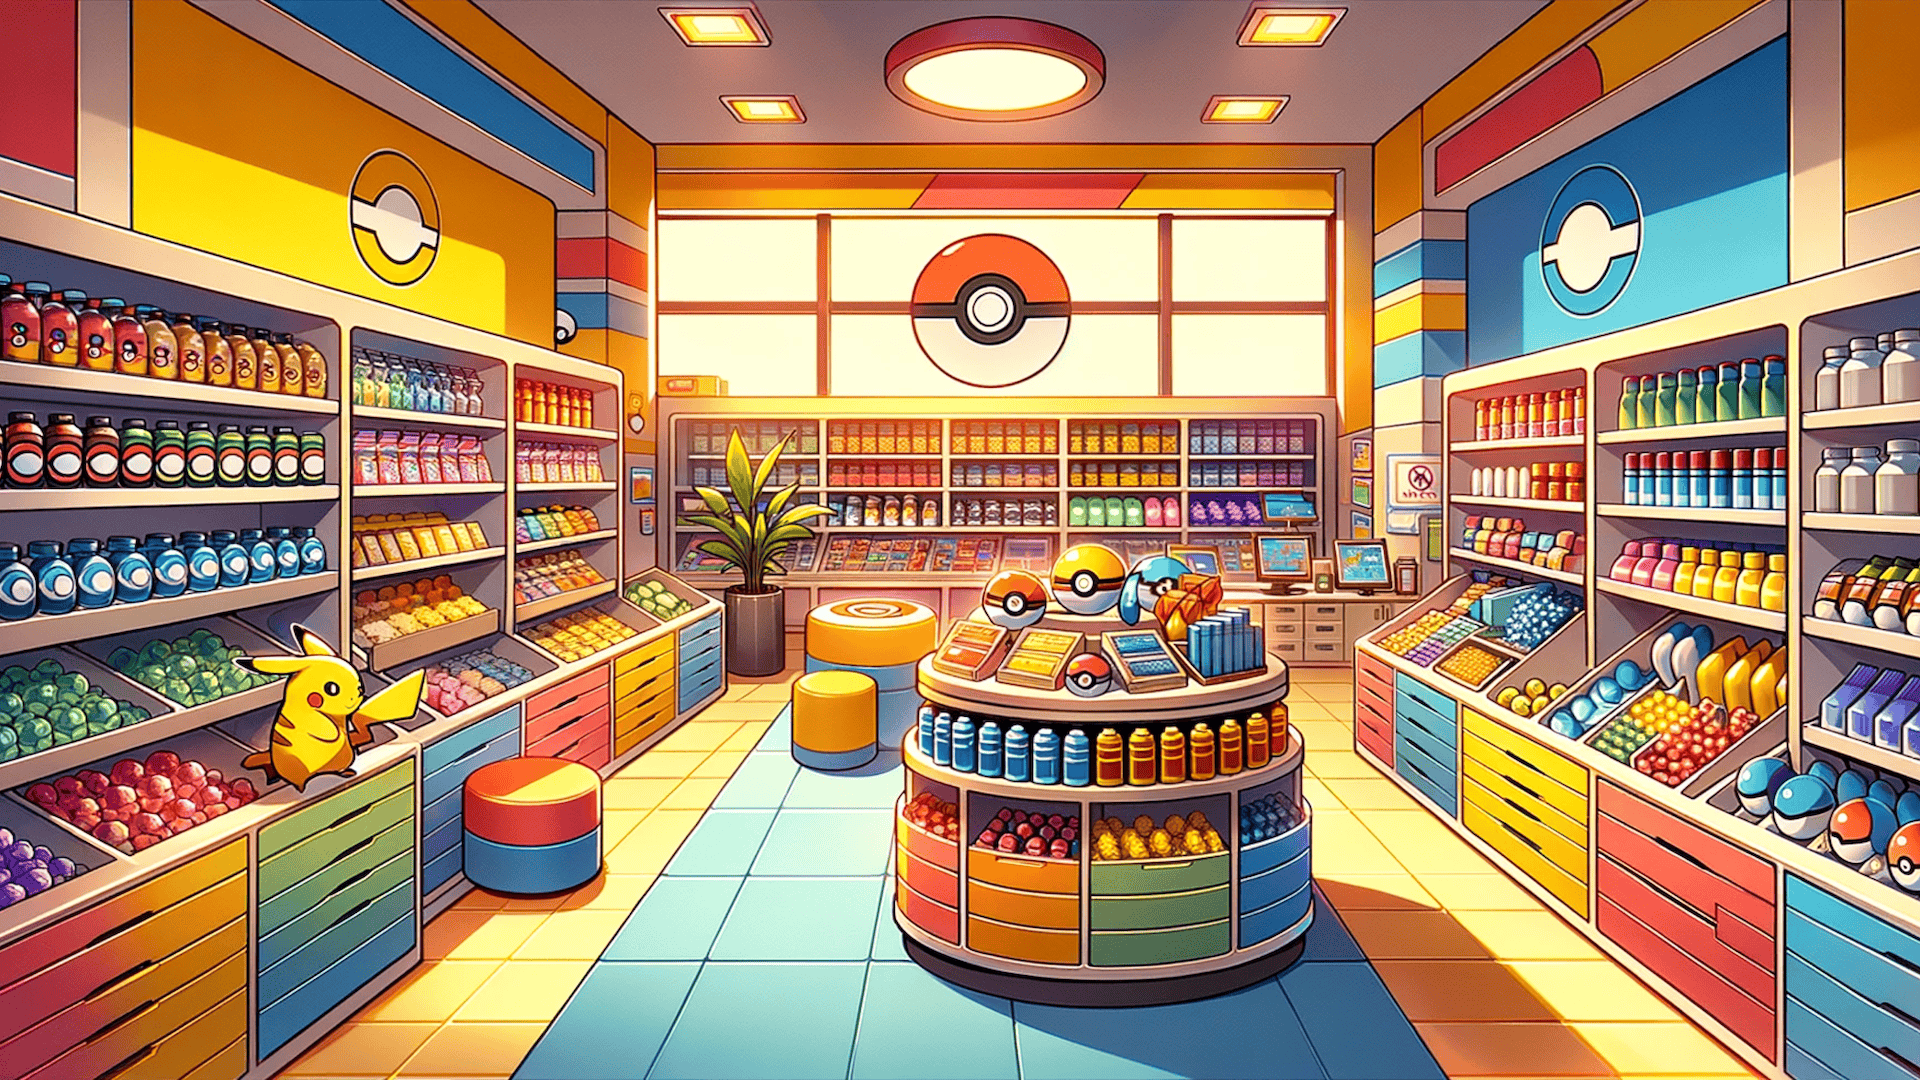
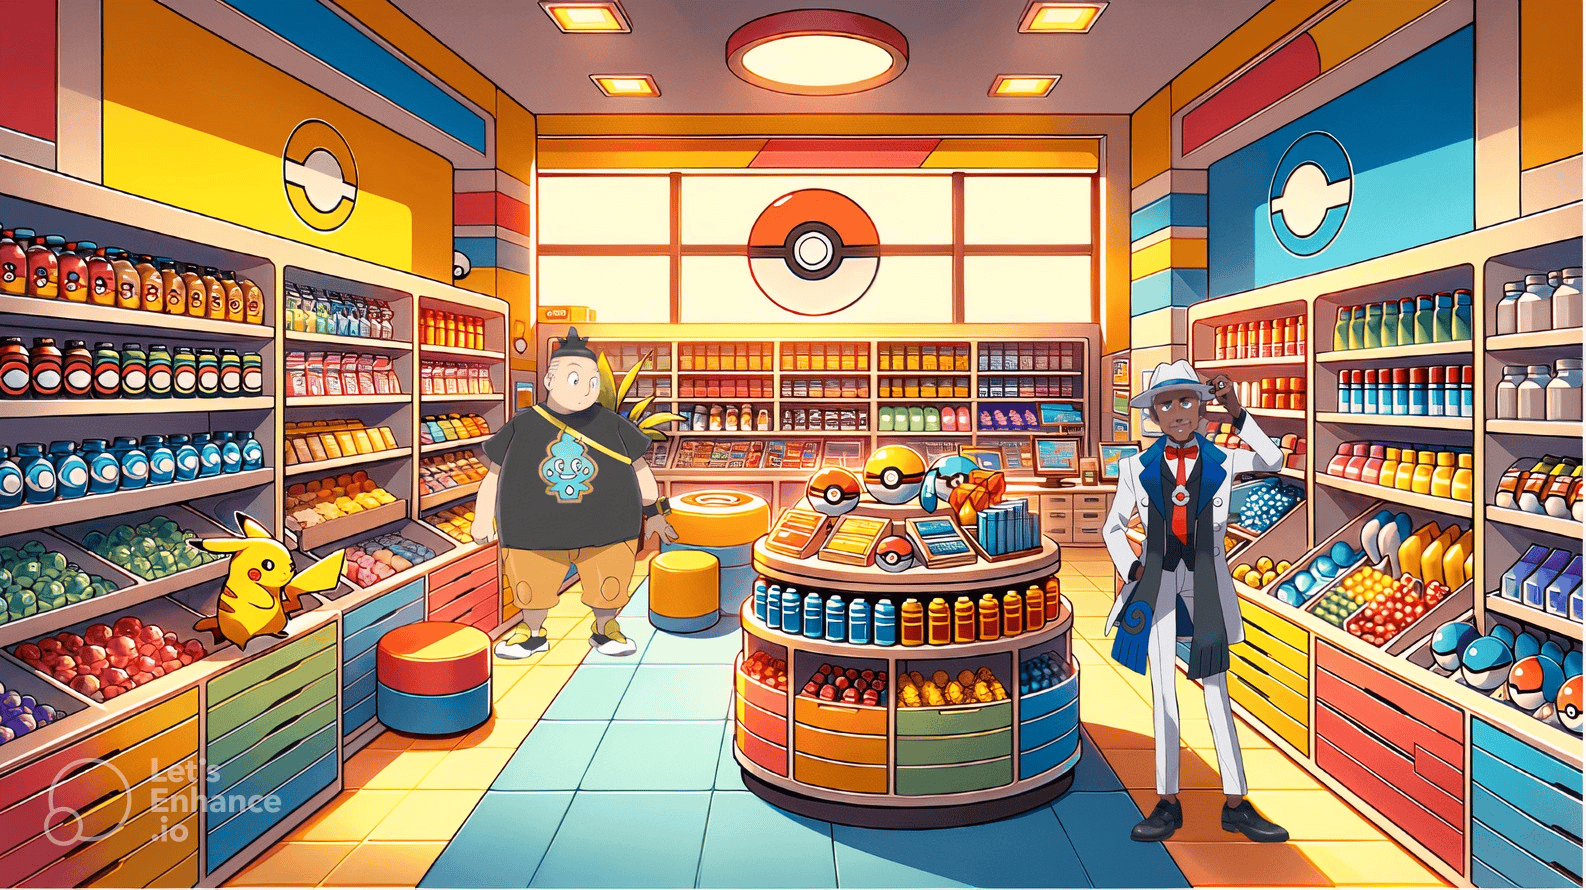
new image pokeshop + texte dlc

diff --git a/frontend/src/App.css b/frontend/src/App.css
@@ -334,7 +334,7 @@ main {
 
 .Pokeshop {
   width: 100%;
-  background-image: url("/pokeshop1.png");
+  background-image: url("/pokeshop.png");
   background-size: cover;
 }
 
@@ -347,6 +347,18 @@ main {
   border-radius: 10px;
   padding: 1%;
   right: 12%;
+  border: 3px solid black;
+}
+
+.dlcPokeshop {
+  position: absolute;
+  z-index: 20;
+  font-size: 3vh;
+  top: 85%;
+  background-color: #f9f9f9;
+  border-radius: 10px;
+  padding: 1%;
+  right: 70%;
   border: 3px solid black;
 }
 

diff --git a/frontend/src/components/Pokeshop.jsx b/frontend/src/components/Pokeshop.jsx
@@ -7,6 +7,7 @@ function Pokeshop() {
       <button className="shopPokemonButton" type="button">
         Acheter
       </button>
+      <p className="dlcPokeshop">Disponible bientôt ...</p>
     </div>
   );
 }
